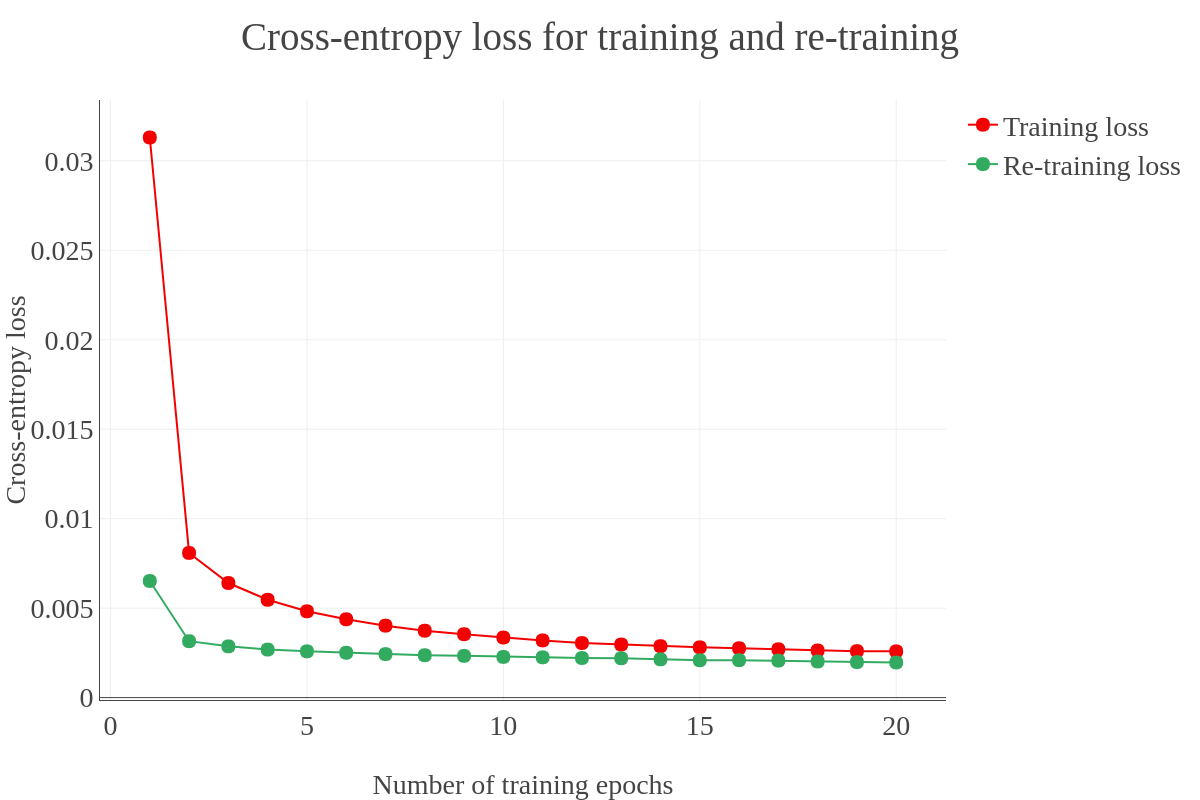
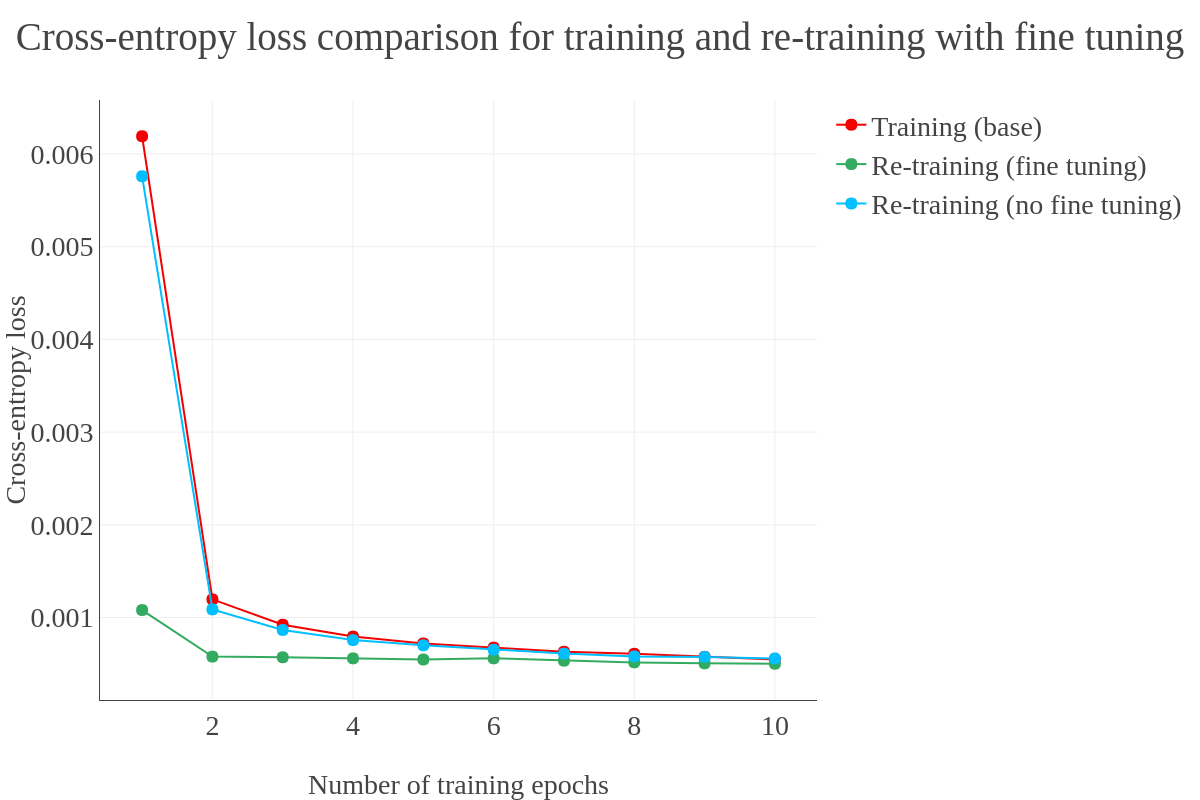
Add plots

diff --git a/plot_retrain.py b/plot_retrain.py
@@ -9,9 +9,10 @@ import numpy as np
 
 train_loss_file = "data/generated_files/mean_test_loss.txt"
 retrain_loss_file = "data/generated_files/retrain_mean_test_loss.txt"
-
+retrain_loss_no_fine_tuning = "data/generated_files/retrain_no_finetuning_mean_test_loss.txt"
 
 fontsz = 28
+circle_size = 10
 
 def read_file(file_name):
     with open(file_name) as fl:
@@ -20,8 +21,12 @@ def read_file(file_name):
 
 train_loss = read_file(train_loss_file)
 train_loss = train_loss[:len(train_loss) - 1]
+
 retrain_loss = read_file(retrain_loss_file)
 retrain_loss = retrain_loss[:len(retrain_loss) - 1]
+
+retrain_loss_no_fine_tuning = read_file(retrain_loss_no_fine_tuning)
+retrain_loss_no_fine_tuning = retrain_loss_no_fine_tuning[:len(retrain_loss_no_fine_tuning) - 1]
 
 x_axis = list(range(1, len(train_loss) + 1))
 
@@ -30,9 +35,9 @@ trace0 = go.Scatter(
     x = x_axis,
     y = train_loss,
     mode = 'lines+markers',
-    name = 'Training loss',
+    name = 'Training (base)',
     marker = dict(
-        size = 12,
+        size = circle_size,
         color='rgb(243, 1, 1)',
         line = dict(
             width = 2,
@@ -45,9 +50,9 @@ trace1 = go.Scatter(
     x = x_axis,
     y = retrain_loss,
     mode = 'lines+markers',
-    name = 'Re-training loss',
+    name = 'Re-training (fine tuning)',
     marker = dict(
-        size = 12,
+        size = circle_size,
         color='rgba(50, 171, 96, 1.0)',
         line = dict(
             width = 2,
@@ -56,8 +61,24 @@ trace1 = go.Scatter(
     )
 )
 
+trace2 = go.Scatter(
+    x = x_axis,
+    y = retrain_loss_no_fine_tuning,
+    mode = 'lines+markers',
+    name = 'Re-training (no fine tuning)',
+    marker = dict(
+        size = circle_size,
+        color='rgb(0,191,255)',
+        line = dict(
+            width = 2,
+            color = 'rgb(0,191,255)'
+        )
+    )
+)
+
+
 layout_time_acc = dict(
-    title='Cross-entropy loss for training and re-training',
+    title='Cross-entropy loss comparison for training and re-training with fine tuning',
     font=dict(family='Times new roman', size=fontsz),
     yaxis=dict(
         showgrid=True,
@@ -88,13 +109,14 @@ layout_time_acc = dict(
     ),
 )
 
-fig_tp = go.Figure(data=[trace0, trace1], layout=layout_time_acc)
+fig_tp = go.Figure(data=[trace0, trace1, trace2], layout=layout_time_acc)
 pio.write_image(fig_tp, 'data/generated_files/loss_train_retrain.png', width=1200, height=800)
 
 #### Plot precision 
 
 train_precision_file = "data/generated_files/mean_test_absolute_precision.txt"
 retrain_precision_file = "data/generated_files/retrain_mean_test_absolute_precision.txt"
+retrain_precision_no_fine_tuning = "data/generated_files/retrain_no_finetuning_test_absolute_precision.txt"
 
 train_precision = read_file(train_precision_file)
 train_precision = train_precision[:len(train_precision) - 1]
@@ -102,14 +124,17 @@ train_precision = train_precision[:len(train_precision) - 1]
 retrain_precision = read_file(retrain_precision_file)
 retrain_precision = retrain_precision[:len(retrain_precision) - 1]
 
+retrain_precision_no_fine_tuning = read_file(retrain_precision_no_fine_tuning)
+retrain_precision_no_fine_tuning = retrain_precision_no_fine_tuning[:len(retrain_precision_no_fine_tuning) - 1]
+
 # Create traces
 trace0 = go.Scatter(
     x = x_axis,
     y = train_precision,
     mode = 'lines+markers',
-    name = 'Training precision',
+    name = 'Training (base)',
     marker = dict(
-        size = 12,
+        size = circle_size,
         color='rgb(243, 1, 1)',
         line = dict(
             width = 2,
@@ -122,9 +147,9 @@ trace1 = go.Scatter(
     x = x_axis,
     y = retrain_precision,
     mode = 'lines+markers',
-    name = 'Re-training precision',
+    name = 'Re-training (fine tuning)',
     marker = dict(
-        size = 12,
+        size = circle_size,
         color='rgba(50, 171, 96, 1.0)',
         line = dict(
             width = 2,
@@ -133,14 +158,30 @@ trace1 = go.Scatter(
     )
 )
 
+trace2 = go.Scatter(
+    x = x_axis,
+    y = retrain_precision_no_fine_tuning,
+    mode = 'lines+markers',
+    name = 'Re-training (no fine tuning)',
+    marker = dict(
+        size = circle_size,
+        color='rgb(0, 191, 255)',
+        line = dict(
+            width = 2,
+            color = 'rgb(0, 191, 255)'
+        )
+    )
+)
+
 layout_time_acc = dict(
-    title='Precision for training and re-training',
+    title='Accuracy comparison for training and re-training with fine tuning',
     font=dict(family='Times new roman', size=fontsz),
     yaxis=dict(
         showgrid=True,
         showline=True,
         showticklabels=True,
-        title='Precision',
+        range=[0.85, 1],
+        title='Accuracy',
         titlefont=dict(
             family='Times new roman',
             size=fontsz
@@ -165,6 +206,6 @@ layout_time_acc = dict(
     ),
 )
 
-fig_tp = go.Figure(data=[trace0, trace1], layout=layout_time_acc)
+fig_tp = go.Figure(data=[trace0, trace1, trace2], layout=layout_time_acc)
 pio.write_image(fig_tp, 'data/generated_files/precision_train_retrain.png', width=1200, height=800)
 
